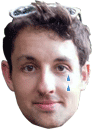
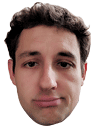
Tear/heart animations.

diff --git a/webapp/index.html b/webapp/index.html
@@ -27,6 +27,14 @@
             <feImage xlink:href="assets/ryan_sad.png"/>
           </filter>
           <circle filter="url(#ryan-sad)" cx="0" cy="-40" r="33" />
+
+          <filter id="tear" x="0%" y="0%" width="100%" height="100%">
+            <feImage xlink:href="assets/drop.svg"/>
+          </filter>
+          <circle filter="url(#tear)" cx="5" cy="-35" r="10">
+            <animate attributeName="r" begin=0s dur="1s" repeatCount="indefinite" values="0; 5; 6; 5; 0" calcMode="linear" keyTimes="0; 0.2; 0.5; 0.8; 1"/>
+            <animate attributeName="cy" begin="0s" dur="1s" repeatCount="indefinite" from="-35" to="-10"/>
+          </circle>
         </g>
 
         <g id="arnaud-sad-face" class="hidden">
@@ -34,6 +42,15 @@
             <feImage xlink:href="assets/arnaud_sad.png"/>
           </filter>
           <circle id="arnaud-sad-circle" filter="url(#arnaud-sad)" cx="0" cy="-40" r="33" />
+
+          <filter id="tear" x="0%" y="0%" width="100%" height="100%">
+            <feImage xlink:href="assets/drop.svg"/>
+          </filter>
+          <circle filter="url(#tear)" cx="10" cy="-50" r="10">
+            <animate attributeName="r" begin=0s dur="1s" repeatCount="indefinite" values="0; 5; 6; 5; 0" calcMode="linear" keyTimes="0; 0.2; 0.5; 0.8; 1"/>
+            <animate attributeName="cy" begin="0s" dur="1s" repeatCount="indefinite" from="-40" to="-10"/>
+          </circle>
+
         </g>
 
         <g id="together-face" class="hidden">
@@ -46,6 +63,13 @@
             <feImage xlink:href="assets/ryan_happy.png"/>
           </filter>
           <circle filter="url(#ryan-happy)" cx="25" cy="-40" r="33" />
+
+          <filter id="heart" x="0%" y="0%" width="100%" height="100%">
+            <feImage xlink:href="assets/heart.png"/>
+          </filter>
+          <circle filter="url(#heart)" cx="0" cy="-50" r="15">
+            <animate attributeName="r" values="15; 20; 15" repeatCount="indefinite" begin="0s" dur="0.4s" calcMode="linear" keyTimes="0; 0.5; 1"/>
+          </circle>
         </g>
       </g> <!-- faces -->
     </g> <!-- hide-me-from-older-browsers -->
